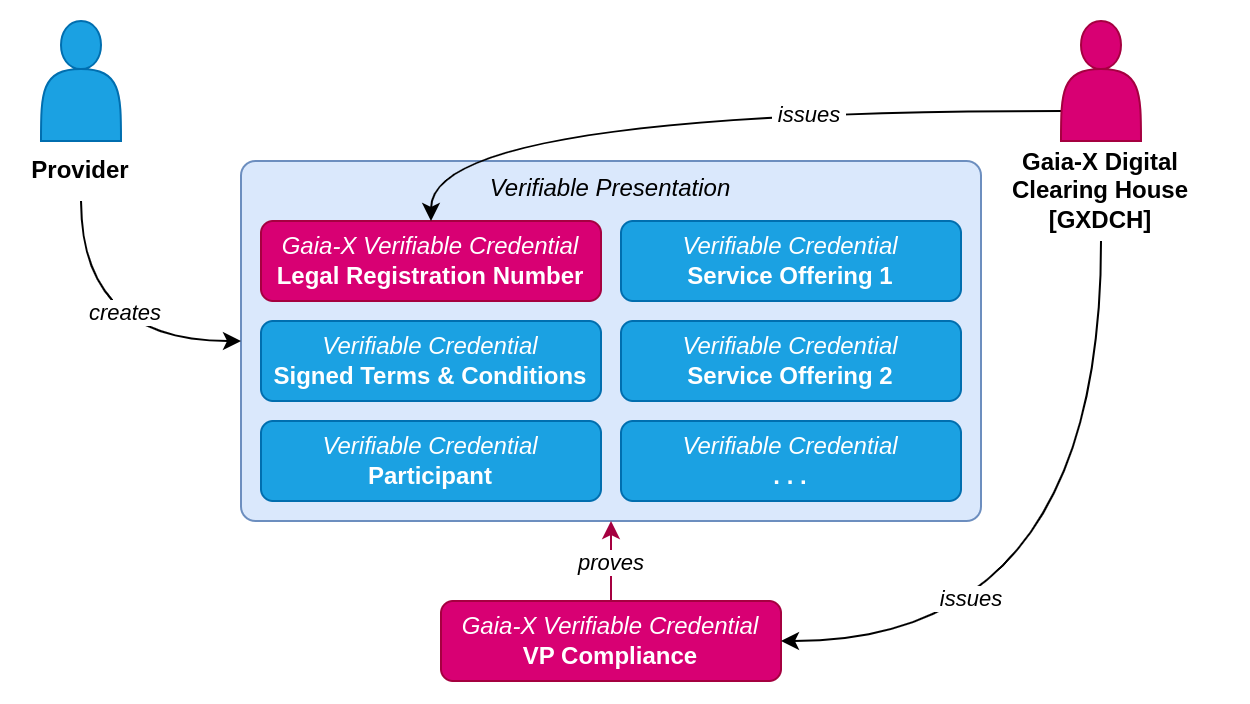
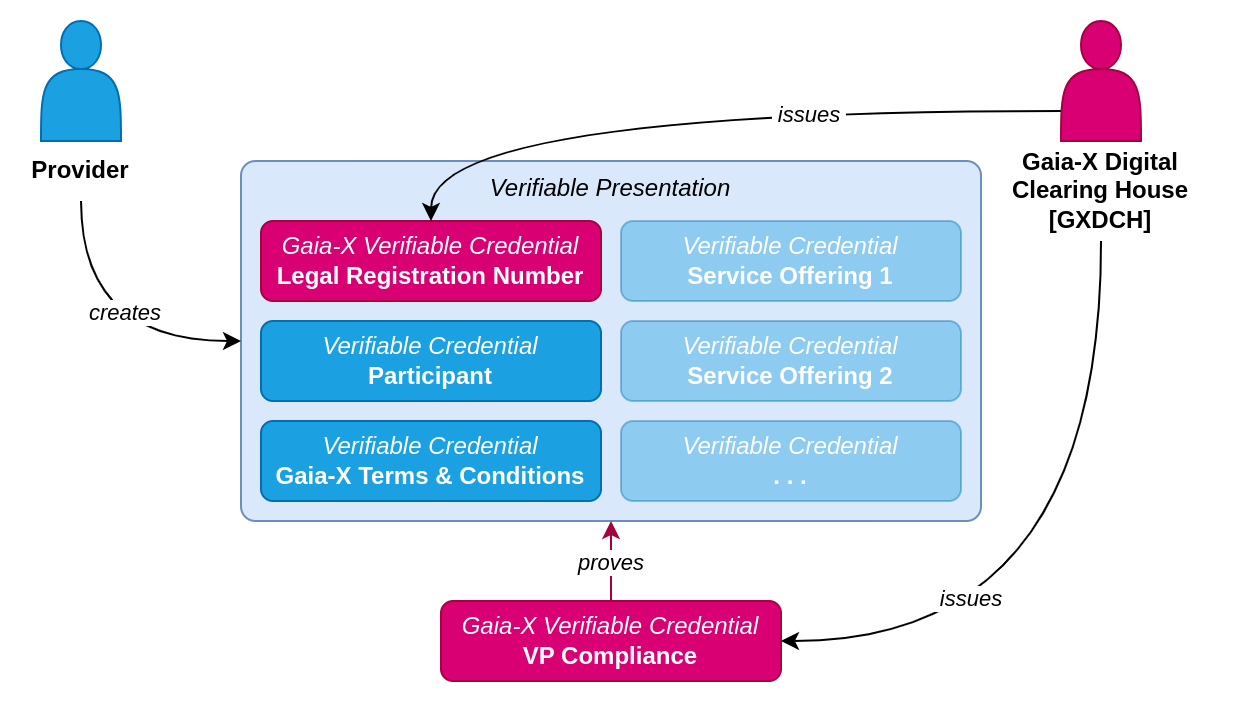
Incorporate more research results surrounding the approach

Changed region(s): [[0.2184, 0.3125, 0.78, 0.7188]]

diff --git a/_i18n/en/_posts/blog/2024-06-05-demystifying-gaia-x-credentials.md b/_i18n/en/_posts/blog/2024-06-05-demystifying-gaia-x-credentials.md
@@ -14,6 +14,8 @@ avatar:
 
 We recommend reading the Gaia-X's own blog post on ["Gaia-X and Verifiable Credentials / Presentations"](https://gaia-x.eu/news-press/gaia-x-and-verifiable-credentials-presentations/) to get familiar with the idea and concepts behind **Verifiable Credentials** and **Verifiable Presentations**.
 
+The process described in this blog post is for the most part an example realization of [how to become a Gaia-X conformant user](https://docs.gaia-x.eu/policy-rules-committee/policy-rules-conformity-document/23.10/Process/) as documented by Gaia-X.
+
 ### Desired Goal
 
 A provider wants to publish Gaia-X Credentials containing proven claims about their identity and offerings conforming to the Gaia-X Framework.
@@ -27,9 +29,19 @@ Finally, the Gaia-X Compliance Service of the GXDCH will verify the Verifiable P
   </a>
 </figure>
 
+Most Verifiable Credentials included in the Verifiable Presentation are self-signed by the provider.
+One exception to this is the Verifiable Credential for the Legal Registration Number (LRN) of the provider which instead is signed by the GXDCH involving a dedicated Gaia-X Notary Service API for verifying the LRN and attesting its validity.
+
+The specific set of Verifiable Credentials a provider includes in their Verifiable Presentation may vary depending on what kind of proven claims the provider wants to present.
+For the purpose of this blog post we will focus on a very common and basic use case of Verifiable Presentations containing the following Verifiable Credentials:
+
+1. The **Legal Registration Number** (LRN) belonging to the provider.
+2. The **Participant** credential representing the provider as a legal person identified by the LRN.
+3. The signed Gaia-X **Terms & Conditions** which the provider pledges to adhere to.
+
 ### Required Identity Assets for Credential Creation
 
-In order to successfully create Verifiable Credentials for the Gaia-X Compliance, the following assets are necessary on the provider side:
+In order to successfully create Verifiable Credentials for the Gaia-X Compliance as illustrated above, the following assets are necessary on the provider side:
 
 1. A DNS record and server for hosting the Gaia-X related identity assets.
 2. A public/private key pair compatible with JSON Web Signatures (JWS) and a corresponding X.509 certificate chain containing the public key.
@@ -48,10 +60,10 @@ The relations between those parts are as follows:
 - the private key of the public/private key pair will be used by the provider to locally sign Verifiable Credentials
 - the public key of the public/private key pair will be used by other parties to verify the signature of provider-signed Verifiable Credentials
 - the public key is hosted by the provider as part of the DID JSON and certificate chain files
-- the DID JSON contains both the public key for signature validation as well as a URL reference to the full X.509 certificate chain for its public key
+- the DID JSON contains both the public key for signature validation as well as a URL reference to the full X.509 certificate chain for the public key
 - the path to the DID is encoded in the "proof" section of the Verifiable Credential
 
-Using the DID and the certificate chain including the public key hosted by the provider, a consumer is able to verify the signature of a Verifiable Credential of the provider by resolving the DID reference and retrieving the certificate:
+Using the DID and the certificate chain including the public key hosted by the provider, a consumer will be able to verify the signature of a Verifiable Credential issued by the provider by resolving the DID reference and retrieving the certificate:
 
 <figure class="figure mx-auto d-block" style="width:50%">
   <a href="{% asset "blog/gx-credentials/gx-credentials-verification.png" @path %}">
